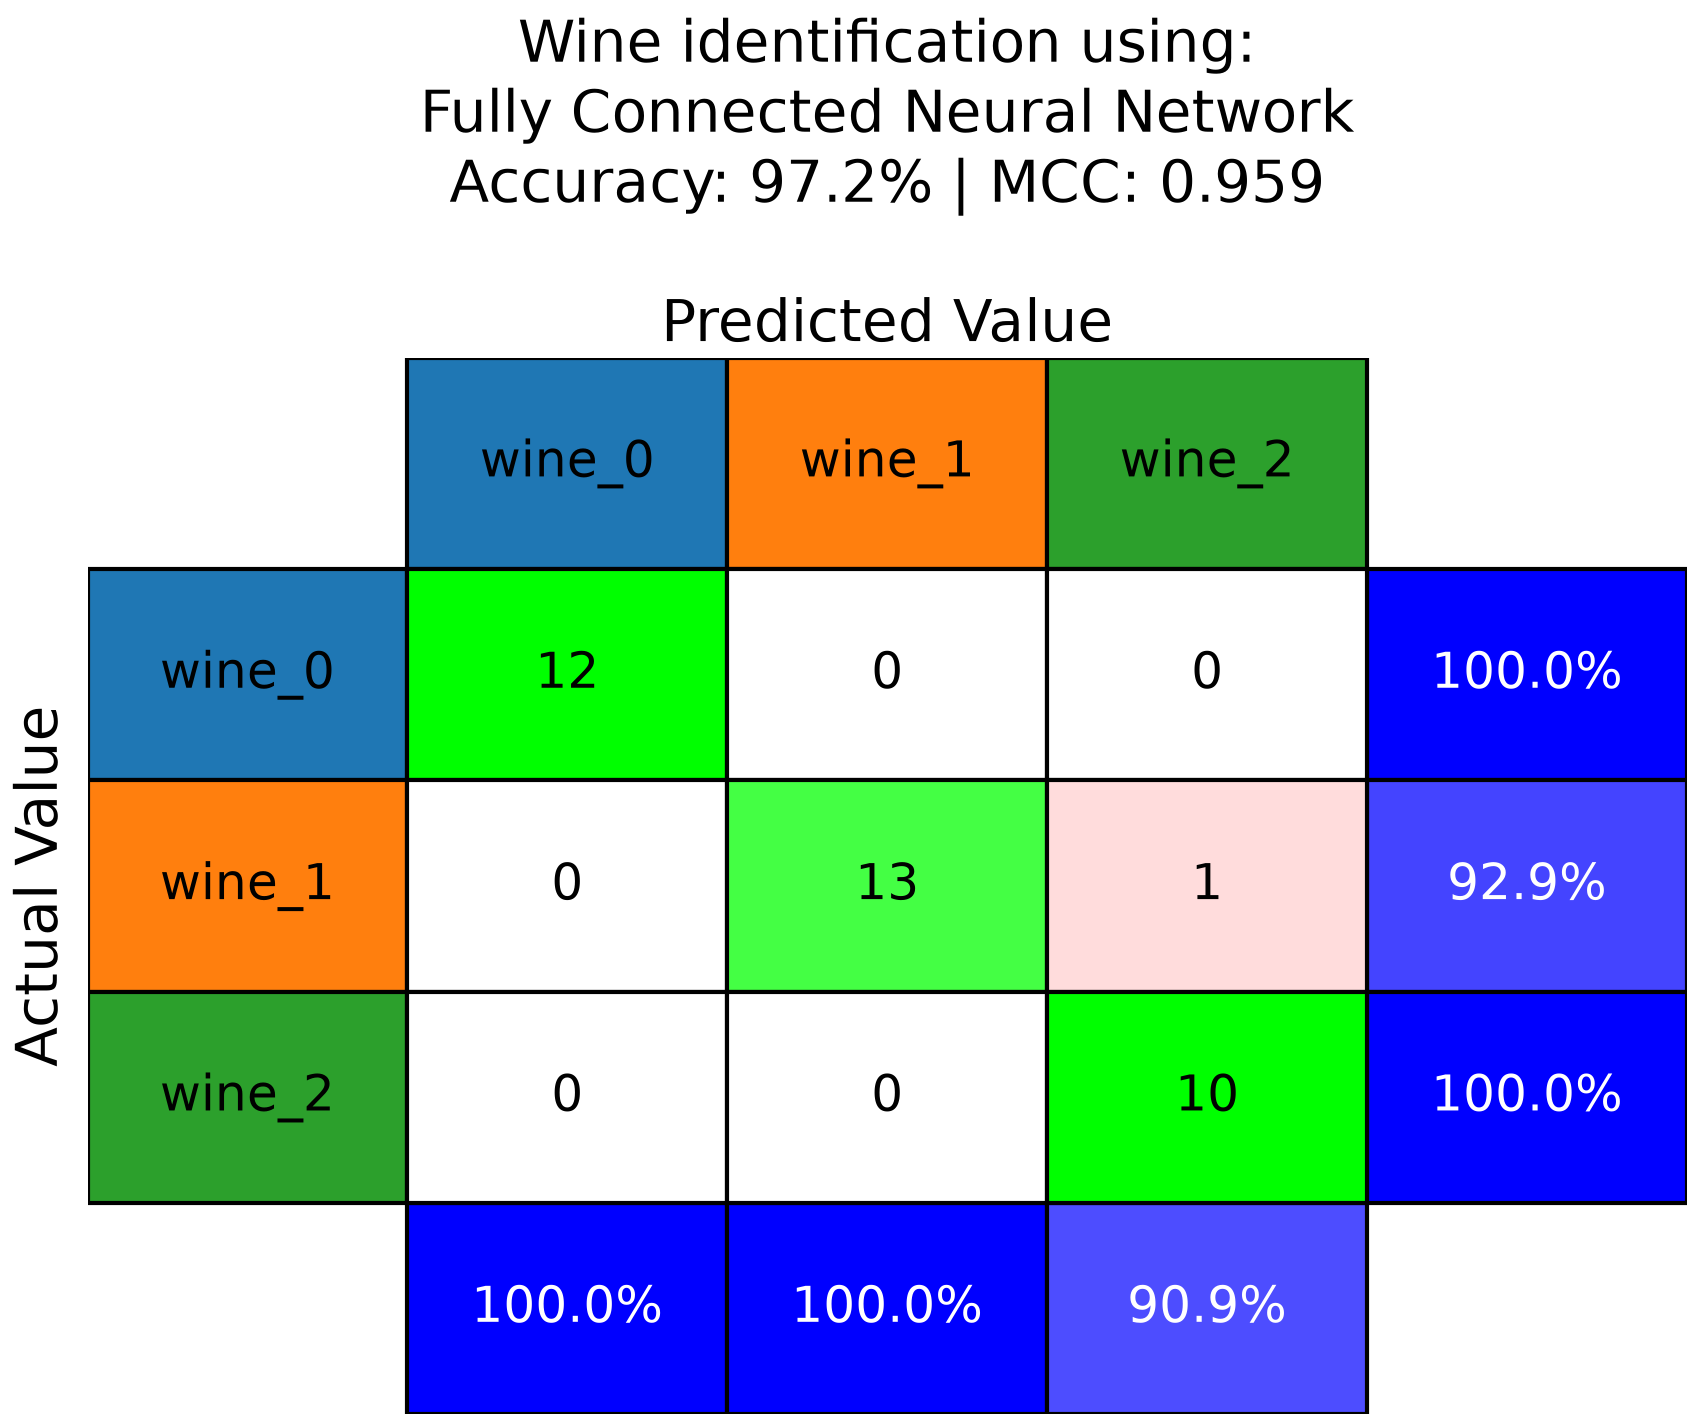
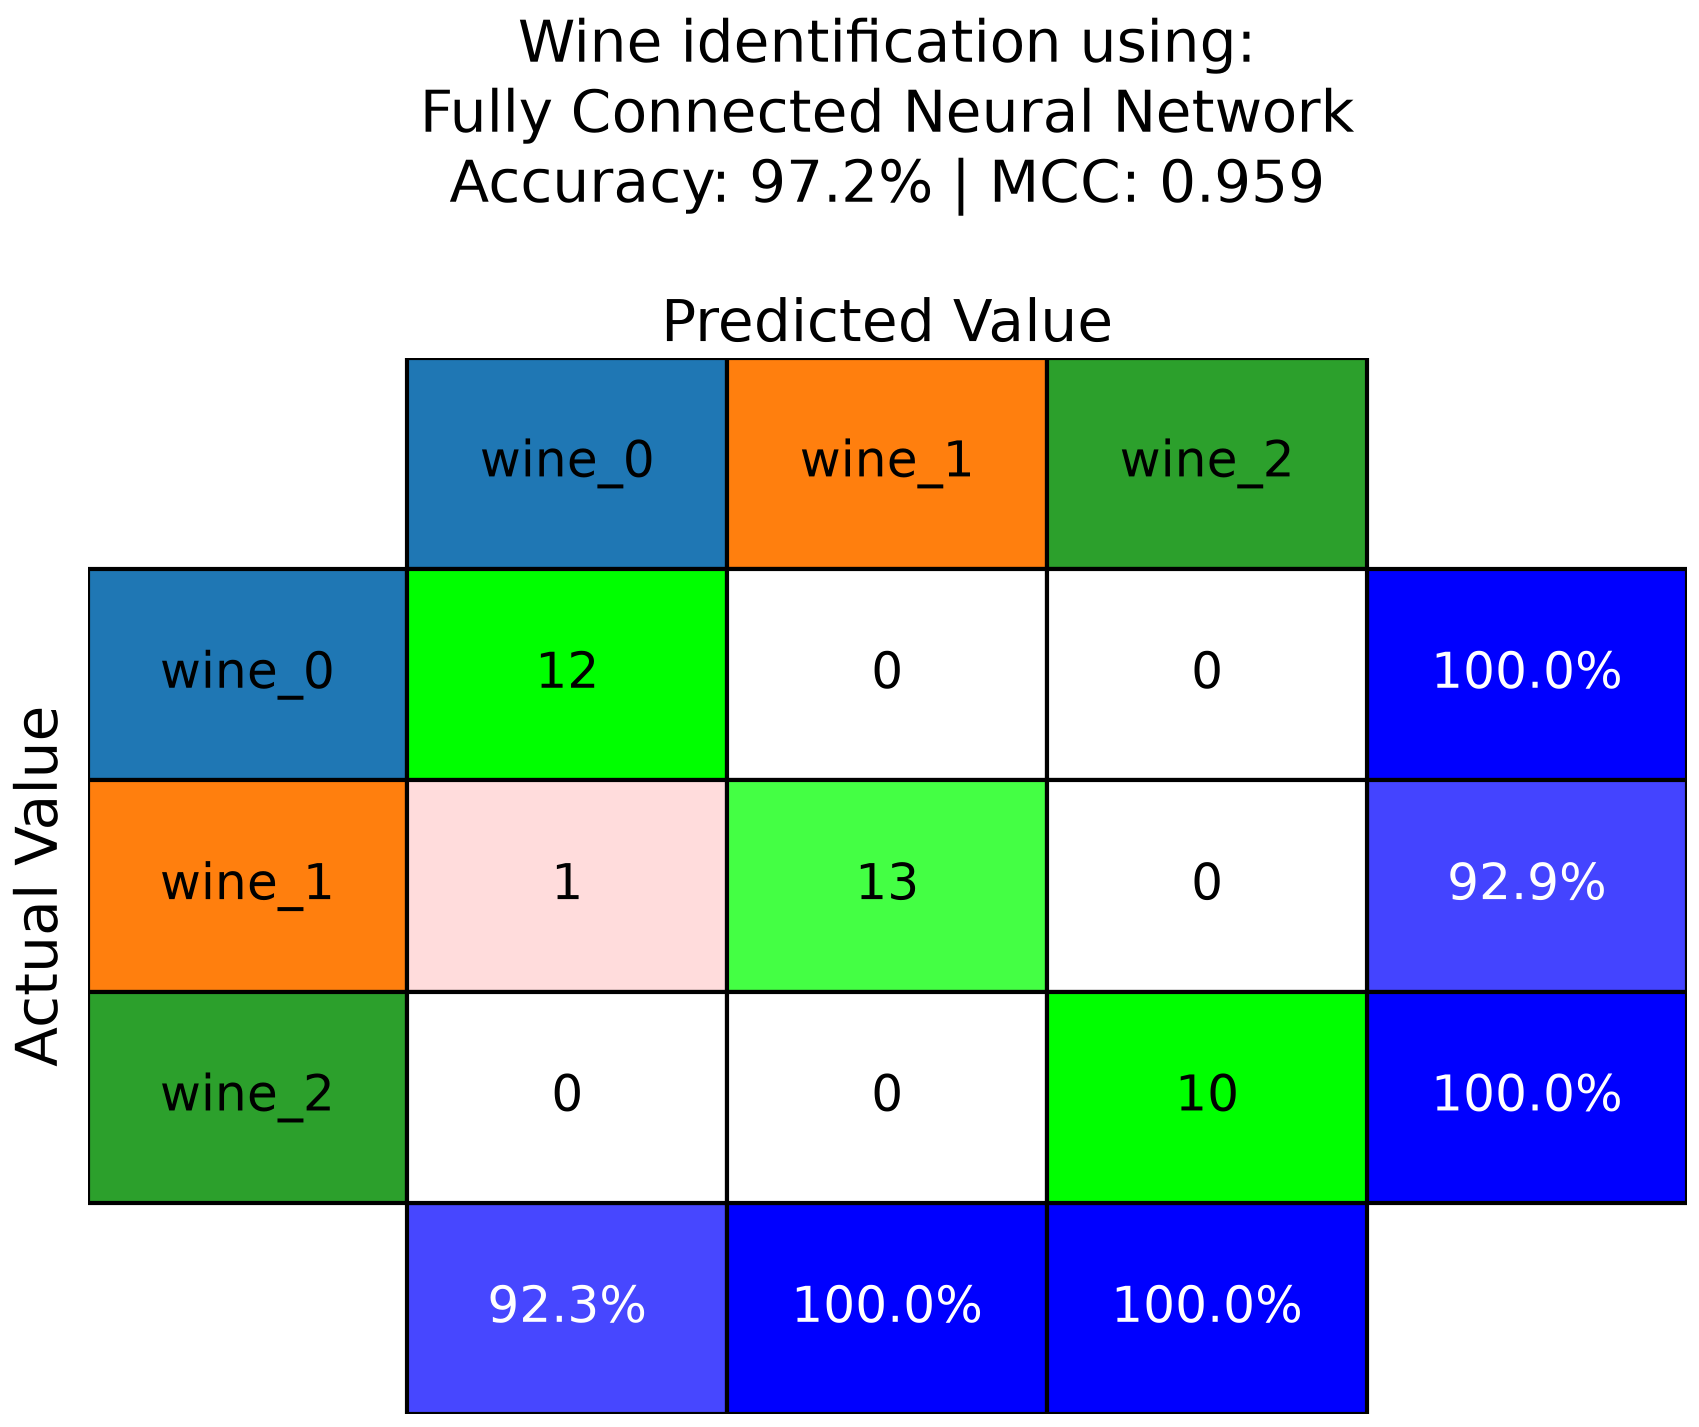
Unit 9 > Main 3

diff --git a/units/unit_09/main_03_neural_network_classification.py b/units/unit_09/main_03_neural_network_classification.py
@@ -1,11 +1,19 @@
 import os
+import random
 
+import numpy as np
 import pandas as pd
+import torch
 from sklearn.metrics import accuracy_score, matthews_corrcoef
 from sklearn.model_selection import train_test_split
 
 from units.unit_09.src.classes import FCNNClassifier
 from units.unit_09.src.functions import plot_confusion_matrix
+
+# Set random seeds for reproducibility
+random.seed(0)
+np.random.seed(0)
+torch.manual_seed(0)
 
 df = pd.read_csv(os.path.join("datasets", "dataset_wine.csv"))
 
